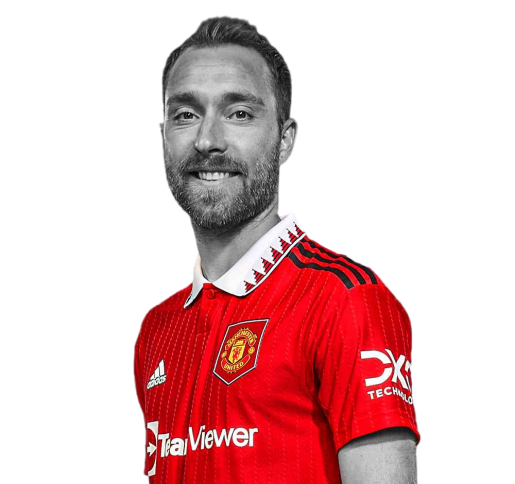
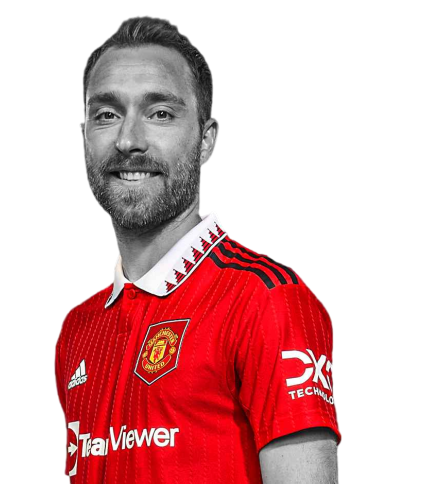
push files for deployment

diff --git a/pages/1_Defenders.py b/pages/1_Defenders.py
@@ -49,32 +49,32 @@ class DefenderStatCard:
             with st.expander(label=f'**{self.player}: {self.number}**', expanded=True ):
                 tabs = st.tabs(['General', 'Threat-Handling', 'Upfield Play' ])
                 with tabs[0]:
-                    cols = st.columns([4,4,8])
-                    with cols[2]:
-                        st.image(f'players/{self.image_path}.png', width=450,)
+                    cols = st.columns([8,4,4])
                     with cols[0]:
+                        st.image(f'players/{self.image_path}.png', width=380,)
+                    with cols[1]:
                         st.write('')
                         st.metric(label='AGE', value =self.general_stats[0])
                         st.metric(label='SALARY', value =self.general_stats[1])
-                        st.metric(label='EST. MARKET VALUE', value =self.general_stats[2])
+                        st.metric(label='MARKET VALUE', value =self.general_stats[2])
                         st.metric(label='TOUCHES/90', value =self.general_stats[3])
-                    with cols[1]:
-                        st.write('')
-                        st.metric(label='PASS ACCURACY', value =str(self.general_stats[4]) + '%')
-                        st.metric(label='SHORT PASSES', value =str(self.general_stats[5]) + '%')
-                        st.metric(label='MEDIUM PASSES', value =str(self.general_stats[6]) + '%')
-                        st.metric(label='LONG PASSES', value =str(self.general_stats[7]) + '%')       
-                with tabs[1]:
-                    cols = st.columns([4,4,8])
                     with cols[2]:
-                        st.image(f'players/{self.image_path}.png', width=450)
+                        st.write('')
+                        st.metric(label='PASS ACCURACY', value =str(round(self.general_stats[4])) + '%')
+                        st.metric(label='SHORT PASSES', value =str(round(self.general_stats[5])) + '%')
+                        st.metric(label='MEDIUM PASSES', value =str(round(self.general_stats[6])) + '%')
+                        st.metric(label='LONG PASSES', value =str(round(self.general_stats[7])) + '%')        
+                with tabs[1]:
+                    cols = st.columns([8,4,4])
                     with cols[0]:
+                        st.image(f'players/{self.image_path}.png', width=380)
+                    with cols[1]:
                         st.write('')
                         st.metric(label='SHOT BLOCKS/90', value =self.threat_stats[0])
                         st.metric(label='BLOCKS/90', value =self.threat_stats[1])
                         st.metric(label='INTERCEPTIONS/90', value =self.threat_stats[2])
                         st.metric(label='CLEARANCES/90', value =self.threat_stats[3])
-                    with cols[1]:
+                    with cols[2]:
                         st.write('')
                         st.metric(label='TACKLE SUCCESS %', value =str(self.threat_stats[4]) + '%')
                         st.metric(label='TACKLES/90', value =self.threat_stats[5])
@@ -82,41 +82,21 @@ class DefenderStatCard:
                         st.metric(label='FOULS/90', value =self.threat_stats[7])  
 
                 with tabs[2]:
-                    cols = st.columns([4,5,8])
-                    with cols[2]:
-                        st.image(f'players/{self.image_path}.png', width=450)
+                    cols = st.columns([8,4,4])
                     with cols[0]:
+                        st.image(f'players/{self.image_path}.png', width=380)
+                    with cols[2]:
                         st.write('')
                         st.metric(label='PROG CARRIES/90', value =self.upfield_stats[0])
                         st.metric(label='PROG PASSES/90', value =self.upfield_stats[1])
                         st.metric(label='PASS TO 3rd/90', value =self.upfield_stats[2])
                         st.metric(label='KEY PASSES/90', value =self.upfield_stats[3])     
-                    with cols[1]:
-                        st.write('')
-                        st.write('')
-                        with st.expander('**Progressive Carries**'):
-                            st.write("Carries that move the ball towards the opponent's goal line at least 10 yards from its furthest point in the last six passes, or any carry into the penalty area. Excludes carries which end in the defending half of the pitch")
-                        st.write('')
-                        st.write('')
-                        st.write('')
-                        with st.expander('**Progressive Passes**'):
-                            st.write("Completed passes that move the ball towards the opponent's goal line at least 10 yards from its furthest point in the last six passes, or any completed pass into the penalty area. Excludes passes from the defending 40% of the pitch")
-                        st.write('')
-                        st.write('')
-                        st.write('')
-                        with st.expander('**Passes to Att 1/3rd**'):
-                            st.write("Completed passes that enter the 1/3 of the pitch closest to the goal. Not including set pieces")
-                        st.write('')
-                        st.write('')
-                        st.write('')
-                        with st.expander('**Key Passes**'):
-                            st.write("Passes that directly lead to a shot (assisted shots)")
 
 #page layout
 
 large_cols = st.columns(2)
 for index, name in enumerate(name_list):
-    if index in [0,2,4,6,8]:
+    if index%2 == 0:
         with large_cols[0]:
             df = DefenderStatCard(player=name)
             df.make_card()

diff --git a/pages/3_Forwards.py b/pages/3_Forwards.py
@@ -37,10 +37,6 @@ class ForwardStatCard:
 
     def __init__(self,player):
         self.player = player
-        if self.player == 'Anthony Martial':
-            self.width = 423
-        else:
-            self.width = 450
         self.image_path = ((self.player.split(' '))[-1]).lower()
         s = PlayerStatFormatting(player)
         self.number = s.number
@@ -53,26 +49,26 @@ class ForwardStatCard:
             with st.expander(label=f'**{self.player}: {self.number}**', expanded=True ):
                 tabs = st.tabs(['General', 'Game Involvement', 'Upfield Play' ])
                 with tabs[0]:
-                    cols = st.columns([4,4,8])
-                    with cols[2]:
-                        st.image(f'players/{self.image_path}.png', width=self.width,)
+                    cols = st.columns([8,4,4])
                     with cols[0]:
+                        st.image(f'players/{self.image_path}.png', width=380)
+                    with cols[1]:
                         st.write('')
                         st.metric(label='AGE', value =self.general_stats[0])
                         st.metric(label='SALARY', value =self.general_stats[1])
-                        st.metric(label='EST. MARKET VALUE', value =self.general_stats[2])
+                        st.metric(label='MARKET VALUE', value =self.general_stats[2])
                         st.metric(label='TOUCHES/90', value =self.general_stats[3])
-                    with cols[1]:
-                        st.write('')
-                        st.metric(label='PASS ACCURACY', value =str(self.general_stats[4]) + '%')
-                        st.metric(label='SHORT PASSES', value =str(self.general_stats[5]) + '%')
-                        st.metric(label='MEDIUM PASSES', value =str(self.general_stats[6]) + '%')
-                        st.metric(label='LONG PASSES', value =str(self.general_stats[7]) + '%')       
-                with tabs[1]:
-                    cols = st.columns([4,4,8])
                     with cols[2]:
-                        st.image(f'players/{self.image_path}.png', width=self.width)
+                        st.write('')
+                        st.metric(label='PASS ACCURACY', value =str(round(self.general_stats[4])) + '%')
+                        st.metric(label='SHORT PASSES', value =str(round(self.general_stats[5])) + '%')
+                        st.metric(label='MEDIUM PASSES', value =str(round(self.general_stats[6])) + '%')
+                        st.metric(label='LONG PASSES', value =str(round(self.general_stats[7])) + '%')     
+                with tabs[1]:
+                    cols = st.columns([8,4,4])
                     with cols[0]:
+                        st.image(f'players/{self.image_path}.png', width=380)
+                    with cols[1]:
                         st.write('')
                         st.write('')
                         st.write('')
@@ -82,7 +78,7 @@ class ForwardStatCard:
                         st.metric(label='TOCUHES IN PEN/90', value =self.involvement_stats[1])
                         st.metric(label='FOULS DRAWN/90', value =self.involvement_stats[2])
                         
-                    with cols[1]:
+                    with cols[2]:
                         st.write('')
                         st.write('')
                         st.write('')
@@ -93,16 +89,16 @@ class ForwardStatCard:
                         st.metric(label='PROG PASSES/90', value =self.involvement_stats[5])  
 
                 with tabs[2]:
-                    cols = st.columns([4,4,8])
-                    with cols[2]:
-                        st.image(f'players/{self.image_path}.png', width=self.width)
+                    cols = st.columns([8,4,4])
                     with cols[0]:
+                        st.image(f'players/{self.image_path}.png', width=380)
+                    with cols[1]:
                         st.write('')
                         st.metric(label='SHOTS/90', value =self.scoring_stats[0])
                         st.metric(label='ON TARGET/90', value =self.scoring_stats[1])
                         st.metric(label='SHOT ACCURACY', value =str(self.scoring_stats[2]) + '%')
                         st.metric(label='FINISHING ACCURACY', value =str(self.scoring_stats[3]) + '%')     
-                    with cols[1]:
+                    with cols[2]:
                         st.write('')
                         st.metric(label='ASSISTS/90', value =self.scoring_stats[4])
                         st.metric(label='GOALS/90', value =self.scoring_stats[5])
@@ -113,11 +109,26 @@ class ForwardStatCard:
 
 large_cols = st.columns(2)
 for index, name in enumerate(name_list):
-    if index in [0,2,4,6,8]:
-        with large_cols[0]:
-            df = ForwardStatCard(player=name)
-            df.make_card()
+    if len(name_list)%2 == 0:
+        if index%2 == 0:
+            with large_cols[0]:
+                df = ForwardStatCard(player=name)
+                df.make_card()
+        else:
+            with large_cols[1]:
+                df = ForwardStatCard(player=name)
+                df.make_card()
     else:
-        with large_cols[1]:
-            df = ForwardStatCard(player=name)
-            df.make_card()
+        if index%2 == 0:
+            with large_cols[0]:
+                df = ForwardStatCard(player=name)
+                df.make_card()
+        else:
+            if  index == len(name_list) -1:
+                cols = st.columns[1,5,1]
+                with cols[1]:
+                  df = ForwardStatCard(player=name)
+                  df.make_card()  
+            with large_cols[1]:
+                df = ForwardStatCard(player=name)
+                df.make_card()

diff --git a/pages/2_Midfielders.py b/pages/2_Midfielders.py
@@ -25,8 +25,8 @@ df = pd.read_csv('Player.csv')
 
 #retrieving names of midfielders who have played more than 90min as less than 90min gives inaccurate results
 
-defender_query = '''SELECT name from df WHERE position ='MF' AND ninteys >1 ;'''
-names = pysqldf(defender_query).values
+midfielder_query = '''SELECT name from df WHERE position ='MF' AND ninteys >1 ;'''
+names = pysqldf(midfielder_query).values
 name_list = []
 for i in names:
     name_list.append(i.tolist())
@@ -51,32 +51,32 @@ class MidfielderStatCard:
             with st.expander(label=f'**{self.player}: {self.number}**', expanded=True ):
                 tabs = st.tabs(['General', 'Threat-Handling', 'Upfield Play' ])
                 with tabs[0]:
-                    cols = st.columns([4,4,8])
-                    with cols[2]:
-                        st.image(f'players/{self.image_path}.png', width=450,)
+                    cols = st.columns([8,4,4])
                     with cols[0]:
+                        st.image(f'players/{self.image_path}.png', width=380,)
+                    with cols[1]:
                         st.write('')
                         st.metric(label='AGE', value =self.general_stats[0])
                         st.metric(label='SALARY', value =self.general_stats[1])
-                        st.metric(label='EST. MARKET VALUE', value =self.general_stats[2])
+                        st.metric(label='MARKET VALUE', value =self.general_stats[2])
                         st.metric(label='TOUCHES/90', value =self.general_stats[3])
-                    with cols[1]:
-                        st.write('')
-                        st.metric(label='PASS ACCURACY', value =str(self.general_stats[4]) + '%')
-                        st.metric(label='SHORT PASSES', value =str(self.general_stats[5]) + '%')
-                        st.metric(label='MEDIUM PASSES', value =str(self.general_stats[6]) + '%')
-                        st.metric(label='LONG PASSES', value =str(self.general_stats[7]) + '%')       
-                with tabs[1]:
-                    cols = st.columns([4,4,8])
                     with cols[2]:
-                        st.image(f'players/{self.image_path}.png', width=450)
+                        st.write('')
+                        st.metric(label='PASS ACCURACY', value =str(round(self.general_stats[4])) + '%')
+                        st.metric(label='SHORT PASSES', value =str(round(self.general_stats[5])) + '%')
+                        st.metric(label='MEDIUM PASSES', value =str(round(self.general_stats[6])) + '%')
+                        st.metric(label='LONG PASSES', value =str(round(self.general_stats[7])) + '%')       
+                with tabs[1]:
+                    cols = st.columns([8,4,4])
                     with cols[0]:
+                        st.image(f'players/{self.image_path}.png', width=400)
+                    with cols[1]:
                         st.write('')
                         st.metric(label='SHOT BLOCKS/90', value =self.threat_stats[0])
                         st.metric(label='BLOCKS/90', value =self.threat_stats[1])
                         st.metric(label='INTERCEPTIONS/90', value =self.threat_stats[2])
                         st.metric(label='CLEARANCES/90', value =self.threat_stats[3])
-                    with cols[1]:
+                    with cols[2]:
                         st.write('')
                         st.metric(label='TACKLE SUCCESS %', value =str(self.threat_stats[4]) + '%')
                         st.metric(label='TACKLES/90', value =self.threat_stats[5])
@@ -87,18 +87,18 @@ class MidfielderStatCard:
                         st.metric(label='FOULS/90', value =self.threat_stats[7])  
 
                 with tabs[2]:
-                    cols = st.columns([4,4,8])
-                    with cols[2]:
-                        st.image(f'players/{self.image_path}.png', width=450)
+                    cols = st.columns([8,4,4])
                     with cols[0]:
+                        st.image(f'players/{self.image_path}.png', width=400)
+                    with cols[1]:
                         st.write('')
                         st.metric(label='SHOTS/90', value =self.upfield_stats[0])
                         st.metric(label='SHOTS ON TARGET/90', value =self.upfield_stats[1])
                         st.metric(label='ASSISTS/90', value =self.upfield_stats[2])
                         st.metric(label='GOALS/90', value =self.upfield_stats[3])     
-                    with cols[1]:
+                    with cols[2]:
                         st.write('')
-                        st.metric(label='PASSES INTO PEN/90', value =self.upfield_stats[4])
+                        st.metric(label='PASS into PEN/90', value =self.upfield_stats[4])
                         st.metric(label='PROG PASSES/90', value =self.upfield_stats[5])
                         st.metric(label='PROG CARRIES/90', value =self.upfield_stats[6])
                         st.metric(label='KEY PASSES/90', value =self.upfield_stats[7])     
@@ -107,7 +107,7 @@ class MidfielderStatCard:
                         
 large_cols = st.columns(2)
 for index, name in enumerate(name_list):
-    if index in [0,2,4,6,8]:
+    if index%2 == 0:
         with large_cols[0]:
             df = MidfielderStatCard(player=name)
             df.make_card()
